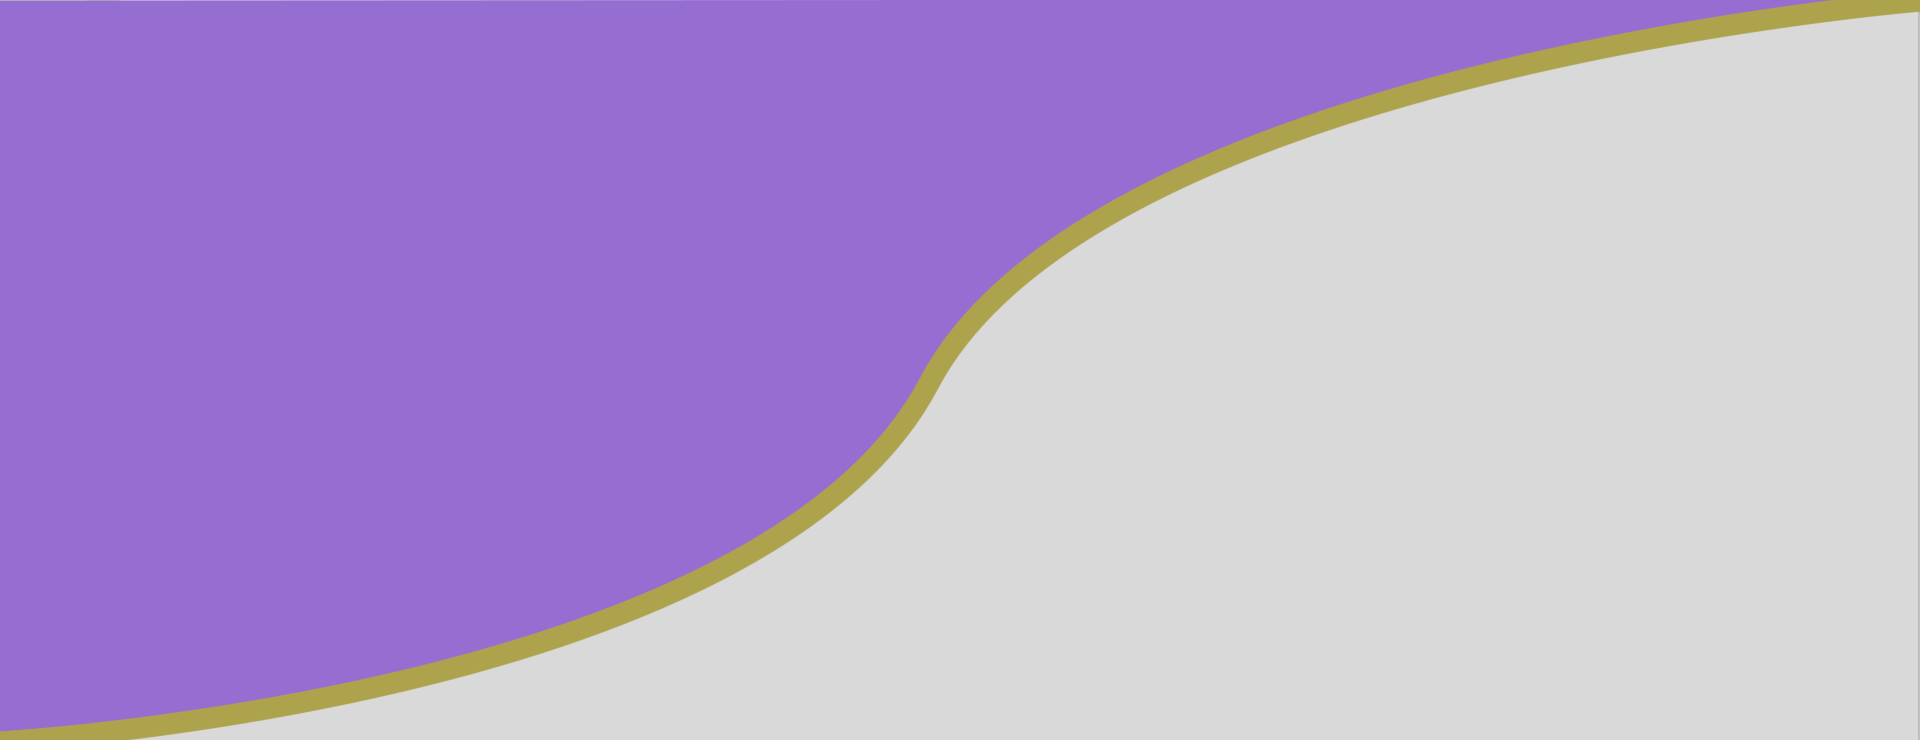
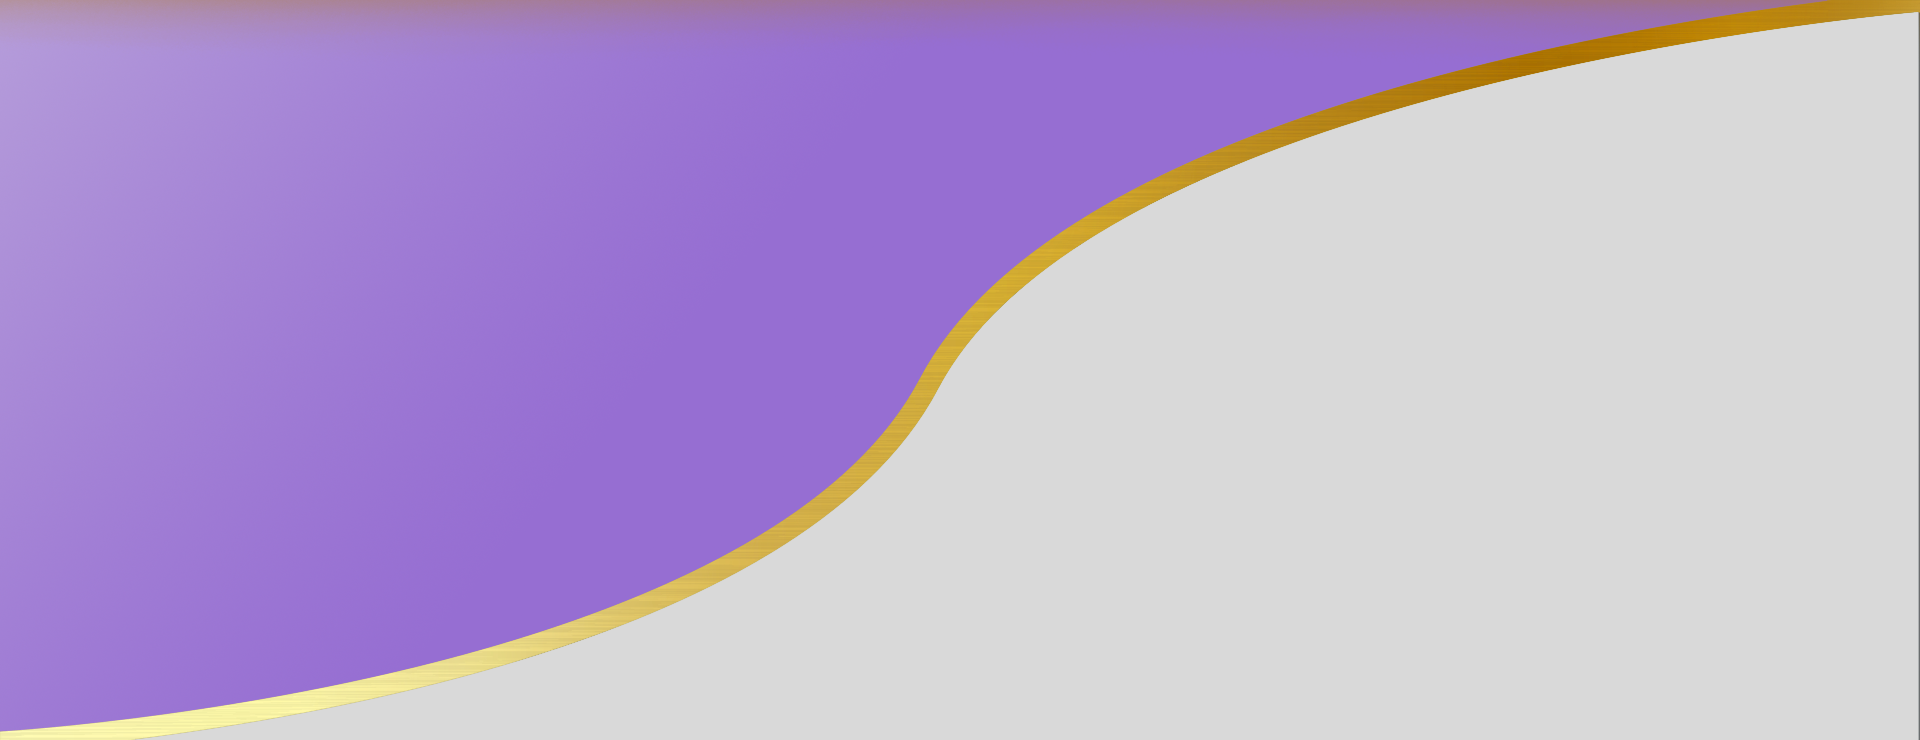
imagens

Changed region(s): [[0.0, 0.0, 1.0, 0.6216], [0.0, 0.373, 0.5312, 1.0]]

diff --git a/estilo.css b/estilo.css
@@ -25,8 +25,8 @@
 }
 
 .navegacao{
+    background-image: url(Bg/cabeçalho.png);
     background-color: #aea34d;
-    background-size: 100vw 100vh;
     width: auto;
     height: 70px;
 }
